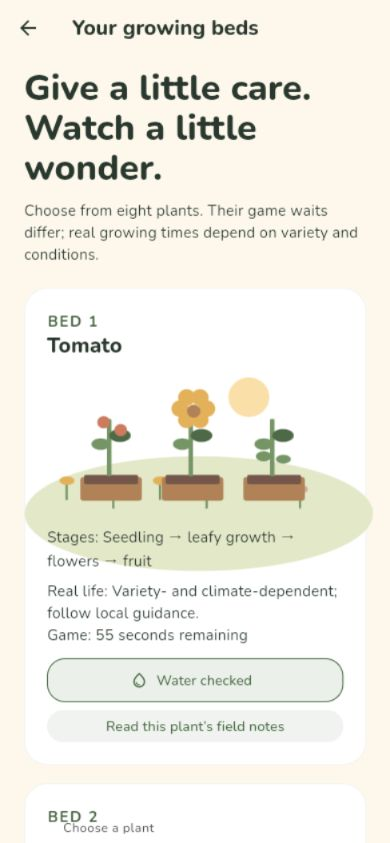
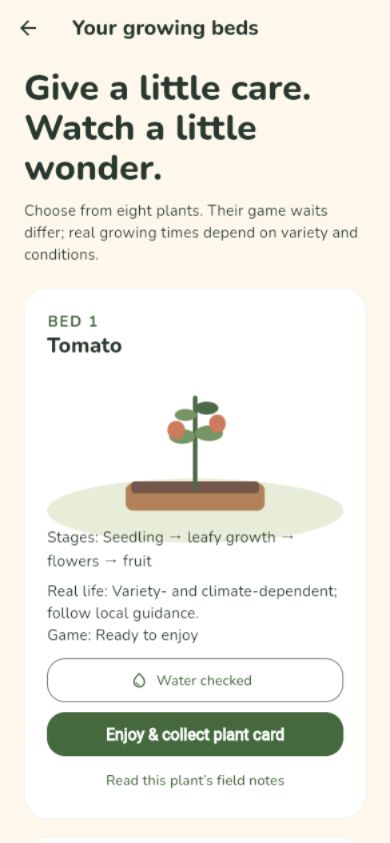
Improve accessible world navigation and finalize build handoff

Changed region(s): [[0.0615, 0.4318, 0.9538, 0.6785], [0.1231, 0.7402, 0.8923, 0.987], [0.1231, 0.9561, 0.2769, 0.987]]

diff --git a/apps/mobile/lib/features/village/village_screen.dart b/apps/mobile/lib/features/village/village_screen.dart
@@ -139,66 +139,78 @@ class VillageScreen extends ConsumerWidget {
                   SizedBox(
                     width:
                         (constraints.maxWidth - (columns - 1) * 18) / columns,
-                    child: Material(
-                      color: Colors.white,
-                      borderRadius: BorderRadius.circular(24),
-                      clipBehavior: Clip.antiAlias,
-                      child: InkWell(
-                        onTap: () => context.push('/topic/${topic.id}'),
-                        child: Column(
-                          crossAxisAlignment: CrossAxisAlignment.stretch,
-                          children: [
-                            Container(
-                              color: Color(topic.color).withValues(alpha: .14),
-                              child: WorldArt(
-                                world: topic.id,
-                                height: 175,
-                                progress:
-                                    c.topicCount(topic) / topic.quests.length,
-                              ),
-                            ),
-                            Padding(
-                              padding: const EdgeInsets.all(20),
-                              child: Column(
-                                crossAxisAlignment: CrossAxisAlignment.start,
-                                children: [
-                                  Row(
+                    child: Semantics(
+                      button: true,
+                      label:
+                          '${topic.name}. ${topic.subtitle}. '
+                          '${c.topicCount(topic)} of ${topic.quests.length} discoveries',
+                      onTap: () => context.push('/topic/${topic.id}'),
+                      child: ExcludeSemantics(
+                        child: Material(
+                          color: Colors.white,
+                          borderRadius: BorderRadius.circular(24),
+                          clipBehavior: Clip.antiAlias,
+                          child: InkWell(
+                            onTap: () => context.push('/topic/${topic.id}'),
+                            child: Column(
+                              crossAxisAlignment: CrossAxisAlignment.stretch,
+                              children: [
+                                Container(
+                                  color: Color(topic.color)
+                                      .withValues(alpha: .14),
+                                  child: WorldArt(
+                                    world: topic.id,
+                                    height: 175,
+                                    progress:
+                                        c.topicCount(topic) /
+                                        topic.quests.length,
+                                  ),
+                                ),
+                                Padding(
+                                  padding: const EdgeInsets.all(20),
+                                  child: Column(
+                                    crossAxisAlignment:
+                                        CrossAxisAlignment.start,
                                     children: [
-                                      Expanded(
-                                        child: Text(
-                                          topic.name,
-                                          style: Theme.of(context)
-                                              .textTheme
-                                              .titleLarge,
-                                        ),
+                                      Row(
+                                        children: [
+                                          Expanded(
+                                            child: Text(
+                                              topic.name,
+                                              style: Theme.of(context)
+                                                  .textTheme
+                                                  .titleLarge,
+                                            ),
+                                          ),
+                                          const Icon(
+                                            Icons.arrow_outward,
+                                            color: olive,
+                                          ),
+                                        ],
                                       ),
-                                      const Icon(
-                                        Icons.arrow_outward,
-                                        color: olive,
+                                      const SizedBox(height: 6),
+                                      Text(topic.subtitle),
+                                      const SizedBox(height: 14),
+                                      LinearProgressIndicator(
+                                        value:
+                                            c.topicCount(topic) /
+                                            topic.quests.length,
+                                        minHeight: 6,
+                                        borderRadius: BorderRadius.circular(6),
+                                        color: Color(topic.color),
+                                        backgroundColor: cream,
+                                      ),
+                                      const SizedBox(height: 8),
+                                      Text(
+                                        '${c.topicCount(topic)} of ${topic.quests.length} discoveries',
+                                        style: const TextStyle(fontSize: 12),
                                       ),
                                     ],
                                   ),
-                                  const SizedBox(height: 6),
-                                  Text(topic.subtitle),
-                                  const SizedBox(height: 14),
-                                  LinearProgressIndicator(
-                                    value:
-                                        c.topicCount(topic) /
-                                        topic.quests.length,
-                                    minHeight: 6,
-                                    borderRadius: BorderRadius.circular(6),
-                                    color: Color(topic.color),
-                                    backgroundColor: cream,
-                                  ),
-                                  const SizedBox(height: 8),
-                                  Text(
-                                    '${c.topicCount(topic)} of ${topic.quests.length} discoveries',
-                                    style: const TextStyle(fontSize: 12),
-                                  ),
-                                ],
-                              ),
+                                ),
+                              ],
                             ),
-                          ],
+                          ),
                         ),
                       ),
                     ),

diff --git a/BUILD_STATUS.md b/BUILD_STATUS.md
@@ -9,18 +9,19 @@ Four worlds, 32 interactive quests, six reusable mechanics, offline saves, XP/co
 ## Verified locally
 
 - Flutter 3.47.6 analysis: no issues.
-- 12 Flutter tests passed, including a UI test completing all 32 quests, persistence, engine behavior, photo metadata stripping and 390px/180% text accessibility.
+- 13 Flutter tests passed, including a UI test completing all 32 quests, persistence, engine behavior, photo metadata stripping, demo/reset behavior and 390px/180% text accessibility.
 - Six Deno contract/security-boundary tests passed; all five functions type-check.
 - PostgreSQL migration/RLS/idempotency/prerequisite/currency/deletion suite passed in PGlite with Auth/Storage fixtures.
 - Content validator: 32 quests, eight plants, 11 source references.
 - Android debug APK built successfully at `apps/mobile/build/app/outputs/flutter-apk/app-debug.apk`.
 - Web build succeeded; manual browser QA completed a honey lesson and verified progress survived reload, and planting/watering worked.
-- Early GitHub CI built Android and iOS simulator successfully. Its mobile check caught an integration-test formatting issue, corrected in the subsequent source. Final CI is pending after the final push.
+- GitHub CI built Android and iOS simulator successfully in the initial source run. Its integration-test formatting issue was corrected. Mobile and backend jobs passed on source commit `65a8799`; the final accessibility revision and native simulator flows are checked by the linked PR's current workflow.
+- Tracked-file and Git-history secret scans passed.
 
 ## Delivery and next checks
 
 Origin: https://github.com/5iber7/Nurturio- ; branch `codex/nurturio-build`.
-First implementation commit: `66dafe2` (pushed). Final polish/documentation commit and draft PR are next.
+Source and documentation are pushed. Draft PR: https://github.com/5iber7/Nurturio-/pull/1 . Native runtime CI results are recorded in the PR checks; do not infer runtime success from compilation alone.
 
 Local Android emulator runtime was not attempted because host virtualization is unavailable. CI now runs native quest flows in Android and iOS simulators. Physical-device camera/reminder/secure-storage checks remain open.
 

diff --git a/apps/mobile/README.md b/apps/mobile/README.md
@@ -1,17 +1,7 @@
-# nurturio
+# Nurturio mobile
 
-A new Flutter project.
+The Flutter/Flame application for iOS and Android. Four offline worlds teach honey production, olive oil, chicken care and gardening through 32 interactive quests.
 
-## Getting Started
+Use Flutter 3.47.6. Run `flutter pub get` and `flutter run` from this directory. No cloud credentials are required for offline play. Validate with `flutter analyze` and `flutter test`; run the native quest journey with `flutter test integration_test/quest_flow_test.dart -d DEVICE_ID`.
 
-This project is a starting point for a Flutter application.
-
-A few resources to get you started if this is your first Flutter project:
-
-- [Learn Flutter](https://docs.flutter.dev/get-started/learn-flutter)
-- [Write your first Flutter app](https://docs.flutter.dev/get-started/codelab)
-- [Flutter learning resources](https://docs.flutter.dev/reference/learning-resources)
-
-For help getting started with Flutter development, view the
-[online documentation](https://docs.flutter.dev/), which offers tutorials,
-samples, guidance on mobile development, and a full API reference.
+See the repository's [setup guide](../../README.md), [build status](../../BUILD_STATUS.md) and [release blockers](../../docs/RELEASE_BLOCKERS.md) for backend configuration, demo mode, actual checks and remaining release work.
